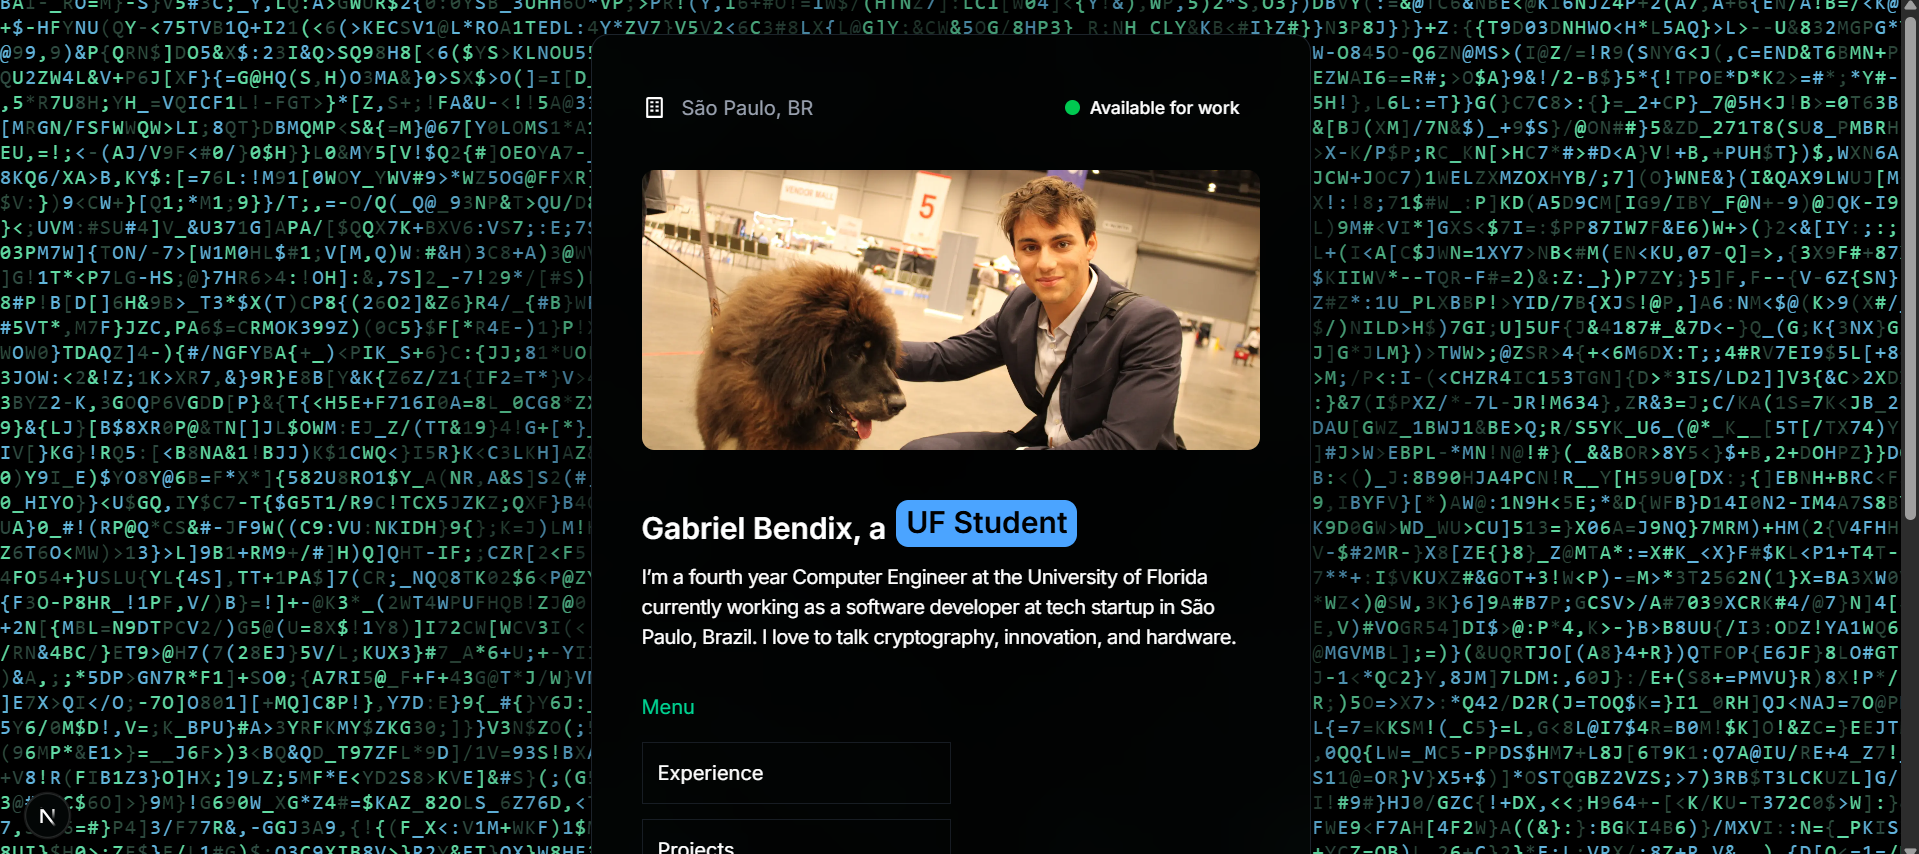
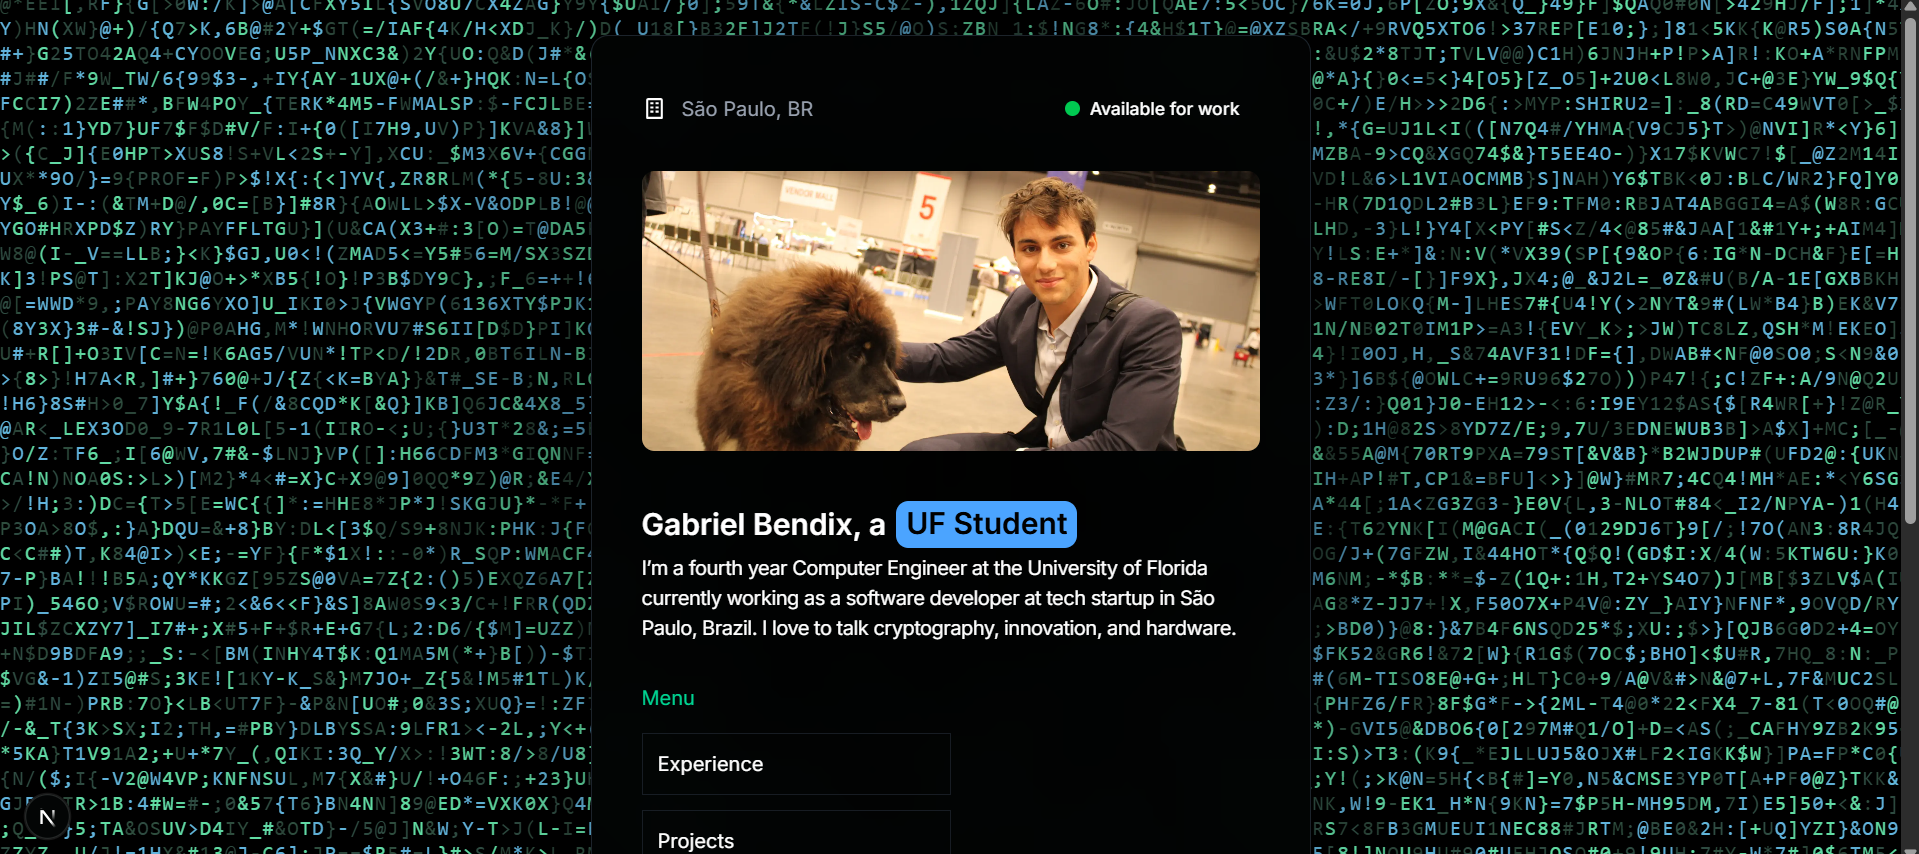
Final updates before redeploy

diff --git a/app/work/page.tsx b/app/work/page.tsx
@@ -51,7 +51,7 @@ const page = () => {
                             </div>
 
                             <div className="p-6">
-                                
+
                                 {/* Title & description */}
                                 <h3 className="text-xl font-semibold mb-2">{project.title}</h3>
                                 <p className="text-gray-300 mb-4">{project.description}</p>
@@ -107,8 +107,8 @@ const page = () => {
                                     )}
                                     {project.demoLink && (
                                         <Button
-                                            variant="ghost"
-                                            className="flex-1 text-gray-300 backdrop-blur-sm border-neutral-800/70 transition-colors duration-200 ease-linear"
+                                            variant="outline"
+                                            className="flex-1 text-white bg-black backdrop-blur-sm border-neutral-800/70 transition-colors duration-200 ease-linear"
                                             asChild
                                         >
                                             <a

diff --git a/app/page.tsx b/app/page.tsx
@@ -53,9 +53,9 @@ export default function Home() {
 
         {/* ───────── ROTATING Job Title + Paragraph ───────── */}
         <div className="mt-10 mb-0"> {/*to edit space below the pfp*/}
-          <div className="text-2xl font-semibold text-white text-left flex flex-wrap items-center gap-2">
-            Gabriel Bendix, a
-            <span className="inline-block">
+          <div className="flex justify-start items-center text-2xl font-semibold text-white text-left flex flex-wrap items-center gap-2">
+            <h1>Gabriel Bendix, a</h1>
+            <div style={{ display: "flex" }} className="inline-block justify-center items-center">
               <RotatingText
                 texts={[
                   "UF Student",
@@ -84,7 +84,7 @@ export default function Home() {
                 transition={{ type: "spring", damping: 30, stiffness: 400 }}
                 rotationInterval={2000}
               />
-            </span>
+            </div>
           </div>
         </div>
 

diff --git a/app/about/page.tsx b/app/about/page.tsx
@@ -56,12 +56,12 @@ const page = () => {
 
             <div>
               <p className="font-medium">FPGA Researcher</p>
-              <p className="text-neutral-500">University of Florida, 2025–present</p>
+              <p className="text-neutral-500">University of Florida, 2025–Current</p>
             </div>
 
 
             <div>
-              <p className="font-medium">Senior Web Developer</p>
+              <p className="font-medium">Outreach Coordinator</p>
               <p className="text-neutral-500">EII IGNITE, 2024</p>
             </div>
 
